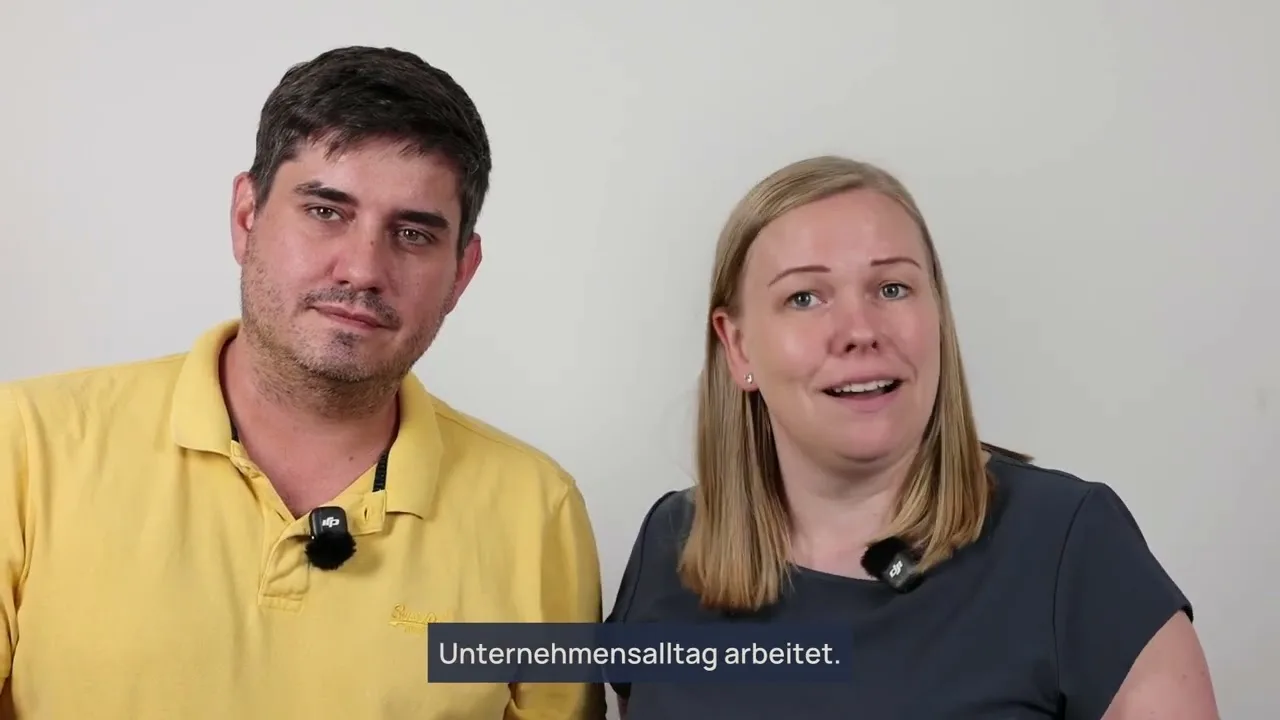
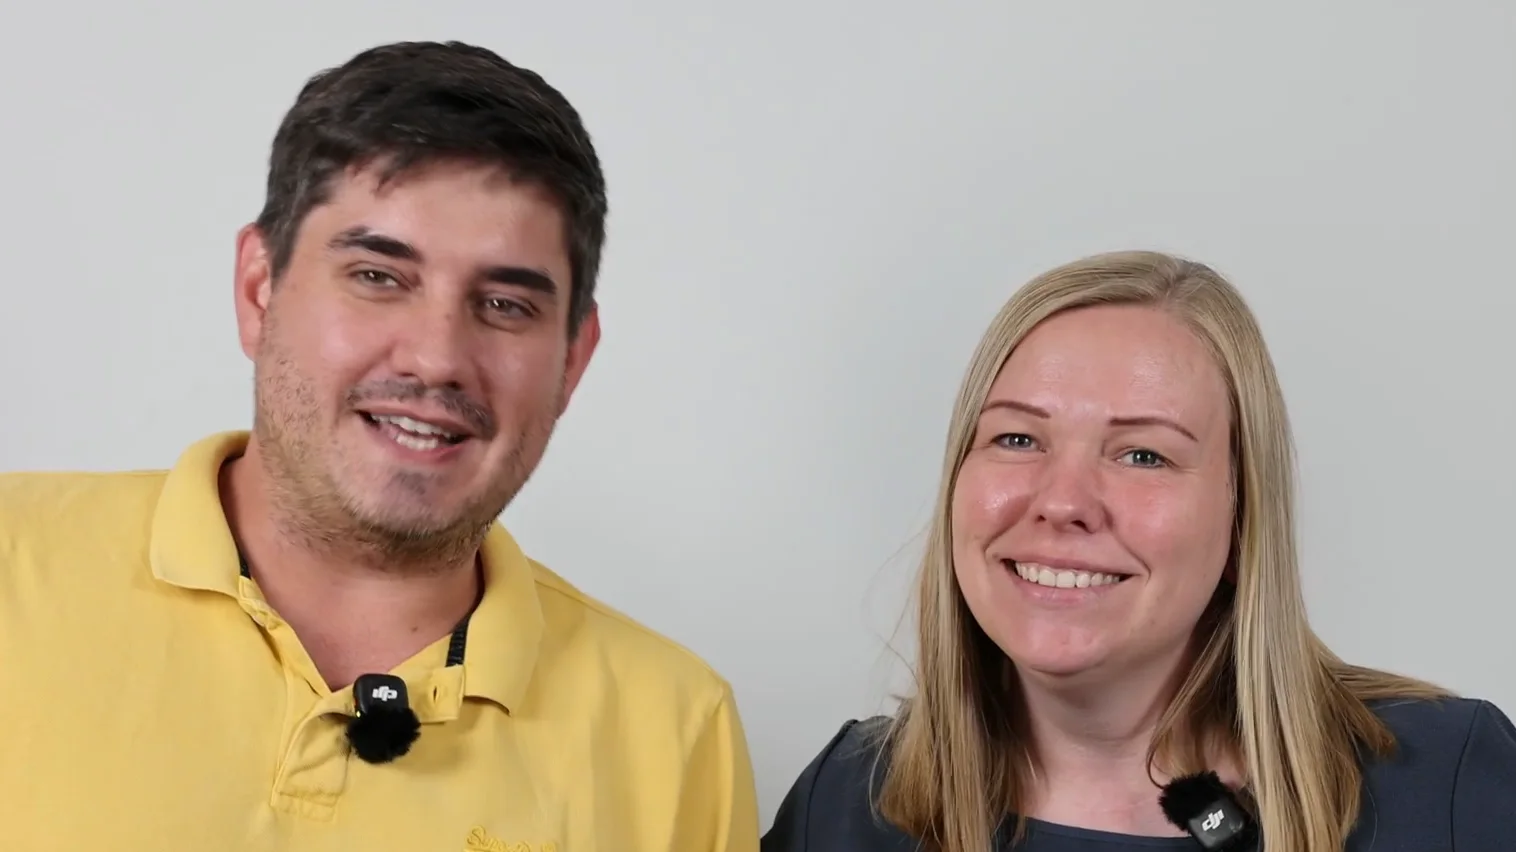
Poster ohne eingebrannten Untertitel, Kostenlos -> Kostenfrei
- Video-Poster aus dem lokalen 1080p-Master (Sekunde 1,5), unterer
  Bildbereich mit dem eingebrannten Untertitel weggeschnitten,
  mittig auf 16:9 zurueckgefuehrt
- Hinweistext im Videorahmen wieder unten (oben war er nur, weil das
  alte Poster dort den Untertitel trug)
- "Kostenlos" durchgaengig zu "Kostenfrei"

Claude-Session: https://claude.ai/code/session_01MHxTbvWEKzdXoPfmCjuY41

diff --git a/index.html b/index.html
@@ -74,7 +74,7 @@
 <body data-screen-label="Seite 1 — Optin">
 
 <!-- ============ ANNOUNCEMENT BAR ============ -->
-<div class="topbar">Exklusives Live-Webinar für Geschäftsführer und Inhaber im Mittelstand – am 02.09.2026 um 19:00 Uhr. 100 % kostenlos.</div>
+<div class="topbar">Exklusives Live-Webinar für Geschäftsführer und Inhaber im Mittelstand – am 02.09.2026 um 19:00 Uhr. 100 % kostenfrei.</div>
 
 <!-- ============ HEADER ============ -->
 <header class="site-header">
@@ -87,7 +87,7 @@
 <section class="hero" style="background-image:url('img/ki-hero-bg.webp')">
   <div class="wrap hero-inner">
     <div class="hero-head">
-      <p class="eyebrow">– Live-Webinar · 02.09.2026 · 19:00 Uhr · 100 % kostenlos –</p>
+      <p class="eyebrow">– Live-Webinar · 02.09.2026 · 19:00 Uhr · 100 % kostenfrei –</p>
       <h1 class="h1">Keine Zeit für Urlaub, weil ohne dich nichts läuft? Bring Klarheit in dein Onboarding – ohne monatelanges Projekt</h1>
       <span class="hero-bonus"><b>Live-Demo:</b> Zwei Experten zeigen dir in Echtzeit, wie KI dir heute schon Arbeit abnimmt – nicht irgendwann, sondern sofort einsetzbar. Inklusive fertiger Vorlagen zum Mitnehmen.</span>
     </div>
@@ -108,7 +108,7 @@
           <li><b>Onboarding als System</b> – Neue Mitarbeiter wissen von Tag 1 an, was zu tun ist – und du kommst raus aus der Ich-erkläre-alles-selbst-Schleife.</li>
         </ul>
         <div class="cta-block">
-          <a class="btn" href="seite-2-bridge.html" data-optin>Jetzt kostenlos anmelden<small>Live am 02.09.2026 um 19:00 Uhr – die Plätze sind begrenzt.</small></a>
+          <a class="btn" href="seite-2-bridge.html" data-optin>Jetzt kostenfrei anmelden<small>Live am 02.09.2026 um 19:00 Uhr – die Plätze sind begrenzt.</small></a>
         </div>
       </div>
     </div>
@@ -162,7 +162,7 @@
       </div>
     </div>
     <div class="cta-block" style="margin-top:54px">
-      <a class="btn" href="seite-2-bridge.html" data-optin>Jetzt kostenlos anmelden<small>Live am 02.09.2026 um 19:00 Uhr – die Plätze sind begrenzt.</small></a>
+      <a class="btn" href="seite-2-bridge.html" data-optin>Jetzt kostenfrei anmelden<small>Live am 02.09.2026 um 19:00 Uhr – die Plätze sind begrenzt.</small></a>
     </div>
   </div>
 </section>
@@ -182,7 +182,7 @@
           <span class="tag-new">(LIVE)</span>
           <p>90 Minuten Live-Demo mit Stefanie und Tim: Onboarding und Führung als System, Claude vs. ChatGPT im direkten Vergleich und Prompts, die vor deinen Augen von schwammig zu brauchbar werden. Mit Zeit für deine Fragen.</p>
           <div class="card-foot">
-            <span class="badge-free">Kostenlos</span>
+            <span class="badge-free">Kostenfrei</span>
           </div>
         </div>
         <div class="card-img"><img src="img/ki-content-main.webp" alt="Das Live-Webinar: KI ist Chefsache (90 Minuten)"/></div>
@@ -198,7 +198,7 @@
           <p>Der Prompt, mit dem du in 5 Minuten eine komplette Einarbeitungs-Checkliste für jede Position in deinem Betrieb erstellst – statt zwei Stunden zu tippen.</p>
           <div class="card-foot">
             <span class="access"><svg viewBox="0 0 24 24"><path d="M19 18H6a4 4 0 0 1-.6-7.95A5.5 5.5 0 0 1 16.3 9 4 4 0 0 1 19 18Z" opacity=".25"/><path d="M12 9v6m0 0 3-3m-3 3-3-3" fill="none" stroke="currentColor" stroke-width="2" stroke-linecap="round" stroke-linejoin="round"/></svg>Erhältst du beim Webinar</span>
-            <span class="badge-free">Kostenlos</span>
+            <span class="badge-free">Kostenfrei</span>
           </div>
         </div>
         <div class="card-img"><img src="img/ki-content-bonus1.webp" alt="Bonus 1: Prompt-Vorlage Onboarding-Checkliste"/></div>
@@ -213,7 +213,7 @@
           <p>Der Prompt für einen klaren Tag-für-Tag-Einarbeitungsplan: was dein neuer Mitarbeiter in Woche 1 lernt, was in Woche 2 – bis er selbstständig arbeitet.</p>
           <div class="card-foot">
             <span class="access"><svg viewBox="0 0 24 24"><path d="M19 18H6a4 4 0 0 1-.6-7.95A5.5 5.5 0 0 1 16.3 9 4 4 0 0 1 19 18Z" opacity=".25"/><path d="M12 9v6m0 0 3-3m-3 3-3-3" fill="none" stroke="currentColor" stroke-width="2" stroke-linecap="round" stroke-linejoin="round"/></svg>Erhältst du beim Webinar</span>
-            <span class="badge-free">Kostenlos</span>
+            <span class="badge-free">Kostenfrei</span>
           </div>
         </div>
         <div class="card-img"><img src="img/ki-bonus2-plan.webp" alt="Monitor mit einem KI-generierten Vier-Wochen-Plan"/></div>
@@ -228,7 +228,7 @@
           <p>Der Prompt, der dein Kopfwissen in klare Schritt-für-Schritt-Anweisungen verwandelt – damit du nicht mehr jeden Handgriff persönlich erklären musst.</p>
           <div class="card-foot">
             <span class="access"><svg viewBox="0 0 24 24"><path d="M19 18H6a4 4 0 0 1-.6-7.95A5.5 5.5 0 0 1 16.3 9 4 4 0 0 1 19 18Z" opacity=".25"/><path d="M12 9v6m0 0 3-3m-3 3-3-3" fill="none" stroke="currentColor" stroke-width="2" stroke-linecap="round" stroke-linejoin="round"/></svg>Erhältst du beim Webinar</span>
-            <span class="badge-free">Kostenlos</span>
+            <span class="badge-free">Kostenfrei</span>
           </div>
         </div>
         <div class="card-img"><img src="img/ki-bonus3-anweisungen.webp" alt="Tablet auf einer Werkbank mit einer KI-generierten Schritt-fuer-Schritt-Anleitung"/></div>
@@ -247,7 +247,7 @@
 
     <p class="center h3" style="margin:34px 0 30px">… und Zeit für deine Fragen</p>
     <div class="cta-block">
-      <a class="btn" href="seite-2-bridge.html" data-optin>Jetzt kostenlos anmelden<small>Live am 02.09.2026 um 19:00 Uhr – die Plätze sind begrenzt.</small></a>
+      <a class="btn" href="seite-2-bridge.html" data-optin>Jetzt kostenfrei anmelden<small>Live am 02.09.2026 um 19:00 Uhr – die Plätze sind begrenzt.</small></a>
     </div>
   </div>
 </section>
@@ -299,11 +299,11 @@
         <ul class="checks fab" style="margin-top:14px">
           <li><b>Live & konkret</b> – Echte Beispiele am Bildschirm statt Folien-Theorie.</li>
           <li><b>Sofort einsetzbar</b> – Vorlagen und Checklisten, die du morgen schon nutzt.</li>
-          <li><b>100 % kostenlos</b> – Kein Risiko, keine versteckten Kosten – nur 90 Minuten deiner Zeit.</li>
+          <li><b>100 % kostenfrei</b> – Kein Risiko, keine versteckten Kosten – nur 90 Minuten deiner Zeit.</li>
         </ul>
         <p style="color:#cfcfcf;margin:22px 0 24px">Klick jetzt auf den Button und sichere dir deinen Platz im Live-Webinar am 02.09.2026 um 19:00 Uhr – bevor alle Plätze vergeben sind.</p>
         <div class="cta-block" style="text-align:left">
-          <a class="btn" href="seite-2-bridge.html" data-optin>Jetzt kostenlos anmelden<small>Live am 02.09.2026 um 19:00 Uhr – die Plätze sind begrenzt.</small></a>
+          <a class="btn" href="seite-2-bridge.html" data-optin>Jetzt kostenfrei anmelden<small>Live am 02.09.2026 um 19:00 Uhr – die Plätze sind begrenzt.</small></a>
         </div>
       </div>
     </div>
@@ -329,7 +329,7 @@ window.FUNNEL = { optin: {
   emailLabel: "Deine beste E-Mail-Adresse",
   emailPlaceholder: "name@beispiel.de",
   submitLabel: "Jetzt Platz sichern",
-  privacyNote: "100 % kostenlos · Kein Spam · Jederzeit abbestellbar · <a href='datenschutz.html' target='_blank' rel='noopener'>Datenschutz</a>",
+  privacyNote: "100 % kostenfrei · Kein Spam · Jederzeit abbestellbar · <a href='datenschutz.html' target='_blank' rel='noopener'>Datenschutz</a>",
   action: "",
   redirect: "seite-2-bridge.html"
 } };
@@ -369,10 +369,9 @@ window.FUNNEL = { optin: {
     border-width:13px 0 13px 22px; border-color:transparent transparent transparent #fff; }
   .video-embed__play:hover .video-embed__icon,
   .video-embed__play:focus-visible .video-embed__icon{ transform:translate(-50%,-50%) scale(1.07); background:var(--accent-deep); }
-  /* Hinweis sitzt OBEN: das Vorschaubild hat unten einen eingebrannten Untertitel. */
-  .video-embed__hint{ position:absolute; left:0; right:0; top:0; padding:10px 14px 26px;
+  .video-embed__hint{ position:absolute; left:0; right:0; bottom:0; padding:26px 14px 10px;
     font-size:12px; line-height:1.35; color:#fff; text-align:center;
-    background:linear-gradient(rgba(46,43,41,.88), transparent); }
+    background:linear-gradient(transparent, rgba(46,43,41,.88)); }
   .video-embed iframe{ position:absolute; inset:0; width:100%; height:100%; border:0; }
   @media (max-width:600px){
     .video-embed__icon{ width:60px; height:60px; }

diff --git a/seite-2-bridge.html b/seite-2-bridge.html
@@ -79,7 +79,7 @@
           <h3 class="h3">90 Minuten Live-Demo mit Stefanie & Tim</h3>
           <p>Claude vs. ChatGPT im direkten Vergleich, schlechte Prompts werden live zu guten, und Onboarding wird zum System statt zum Feuerwehreinsatz – mit Zeit für deine Fragen.</p>
           <div class="card-foot">
-            <span class="badge-free">Kostenlos</span>
+            <span class="badge-free">Kostenfrei</span>
           </div>
         </div>
         <div class="card-img"><img src="img/ki-content-main.webp" alt="90 Minuten Live-Demo mit Stefanie & Tim"/></div>
@@ -94,7 +94,7 @@
           <p>Onboarding-Checkliste, 30-Tage-Einarbeitungsplan und Arbeitsanweisungen – zum Kopieren, an deinen Betrieb anpassen und morgen direkt nutzen.</p>
           <div class="card-foot">
             <span class="access"><svg viewBox="0 0 24 24"><path d="M19 18H6a4 4 0 0 1-.6-7.95A5.5 5.5 0 0 1 16.3 9 4 4 0 0 1 19 18Z" opacity=".25"/><path d="M12 9v6m0 0 3-3m-3 3-3-3" fill="none" stroke="currentColor" stroke-width="2" stroke-linecap="round" stroke-linejoin="round"/></svg>Erhältst du beim Webinar</span>
-            <span class="badge-free">Kostenlos</span>
+            <span class="badge-free">Kostenfrei</span>
           </div>
         </div>
         <div class="card-img"><img src="img/ki-content-bonus1.webp" alt="3 fertige Prompt-Vorlagen fürs Onboarding"/></div>
@@ -108,7 +108,7 @@
           <p>Konkrete Checklisten und die Struktur, mit der neue Mitarbeiter von Tag 1 an wissen, was zu tun ist.</p>
           <div class="card-foot">
             <span class="access"><svg viewBox="0 0 24 24"><path d="M19 18H6a4 4 0 0 1-.6-7.95A5.5 5.5 0 0 1 16.3 9 4 4 0 0 1 19 18Z" opacity=".25"/><path d="M12 9v6m0 0 3-3m-3 3-3-3" fill="none" stroke="currentColor" stroke-width="2" stroke-linecap="round" stroke-linejoin="round"/></svg>Erhältst du beim Webinar</span>
-            <span class="badge-free">Kostenlos</span>
+            <span class="badge-free">Kostenfrei</span>
           </div>
         </div>
         <div class="card-img"><img src="img/ki-content-bonus2.webp" alt="Checklisten & Onboarding-Struktur"/></div>
